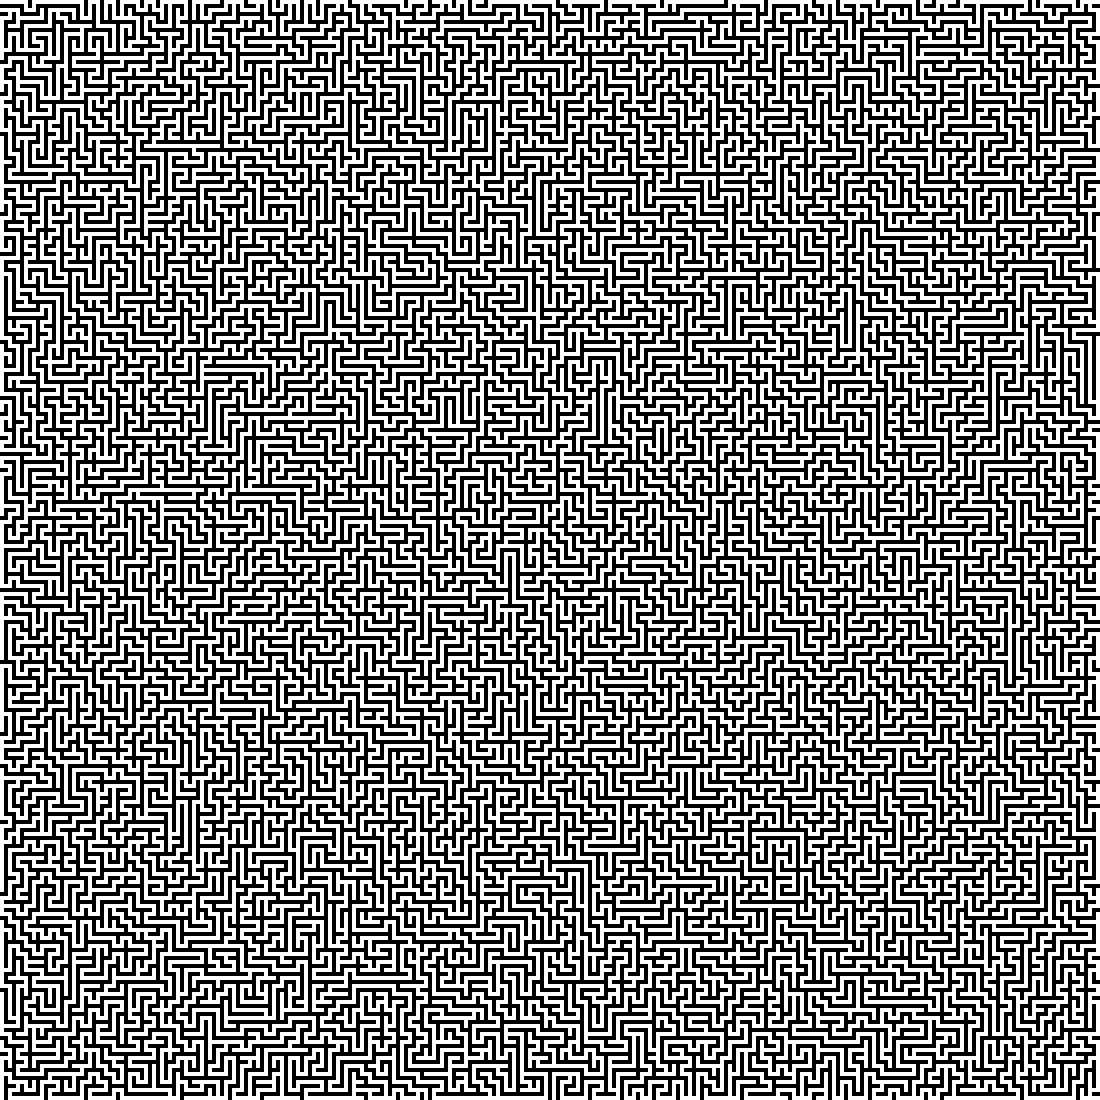
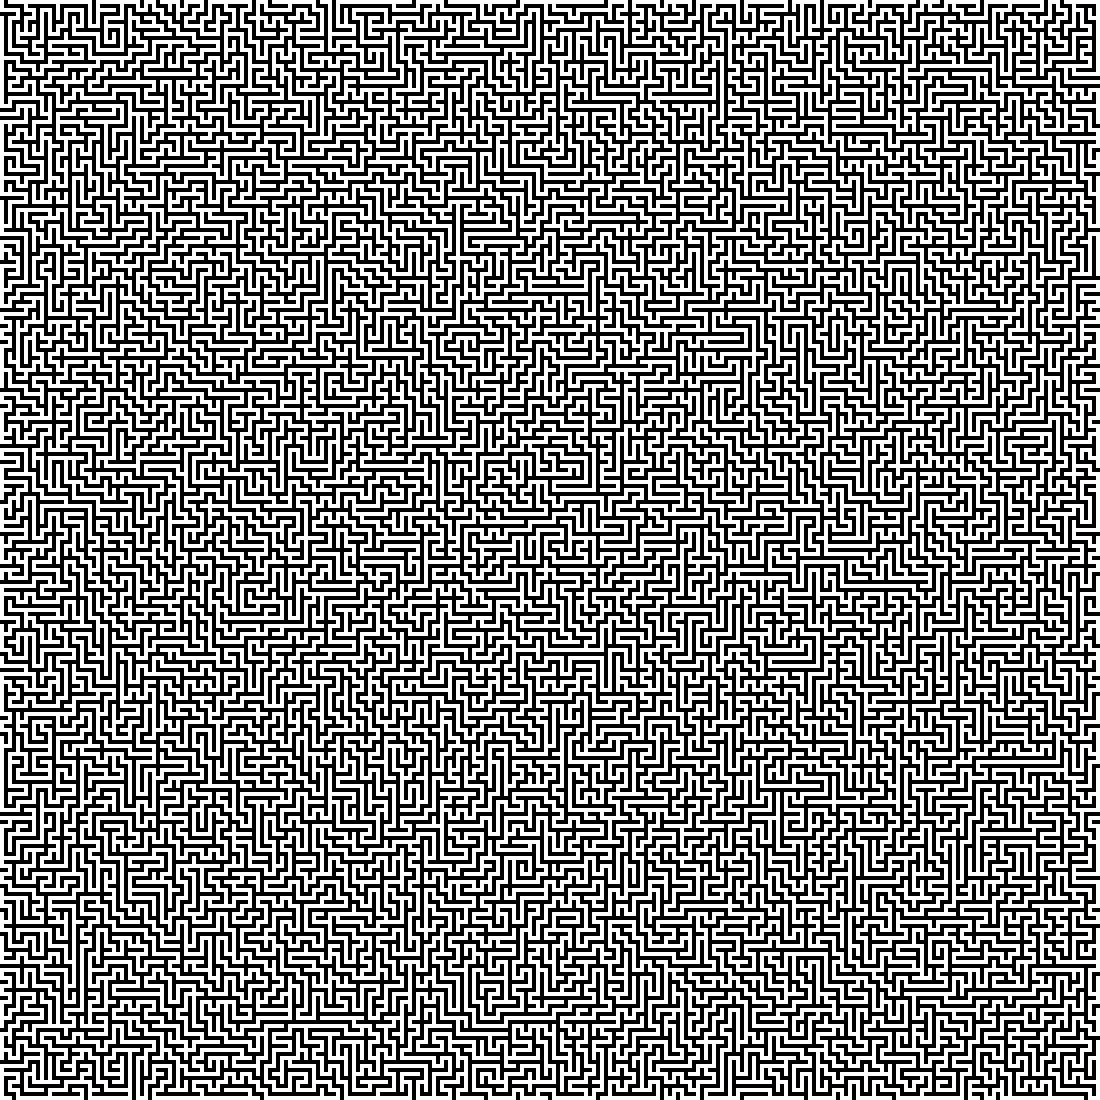
update example

Changed region(s): [[0.0, 0.0, 1.0, 1.0]]

diff --git a/example/GenMaze.cpp b/example/GenMaze.cpp
@@ -1,17 +1,21 @@
-#include "../src/MazeImage++.h"
+#include <MazeImage++/MazeImage++.h>
 
 int main(void){
-    // Small maze
     mazeimg_library::MazeImgGenerator gen_maze(M_SIZE::s);
-    gen_maze.processImage("small_maze", IMG_FORMAT::PNG);
+
+    // enable solution - display shortest path
+    gen_maze.enableSolution(true);
+
+    // Small maze
+    gen_maze.generate("small_maze", IMG_FORMAT::PNG);
 
     // Medium maze
     gen_maze.setMazeSize(M_SIZE::m);
-    gen_maze.processImage("medium_maze", IMG_FORMAT::PNG);
+    gen_maze.generate("medium_maze", IMG_FORMAT::PNG);
 
     // Large maze
     gen_maze.setMazeSize(M_SIZE::l);
-    gen_maze.processImage("large_maze", IMG_FORMAT::PNG);
+    gen_maze.generate("large_maze", IMG_FORMAT::PNG);
 
     return 0;
 }
